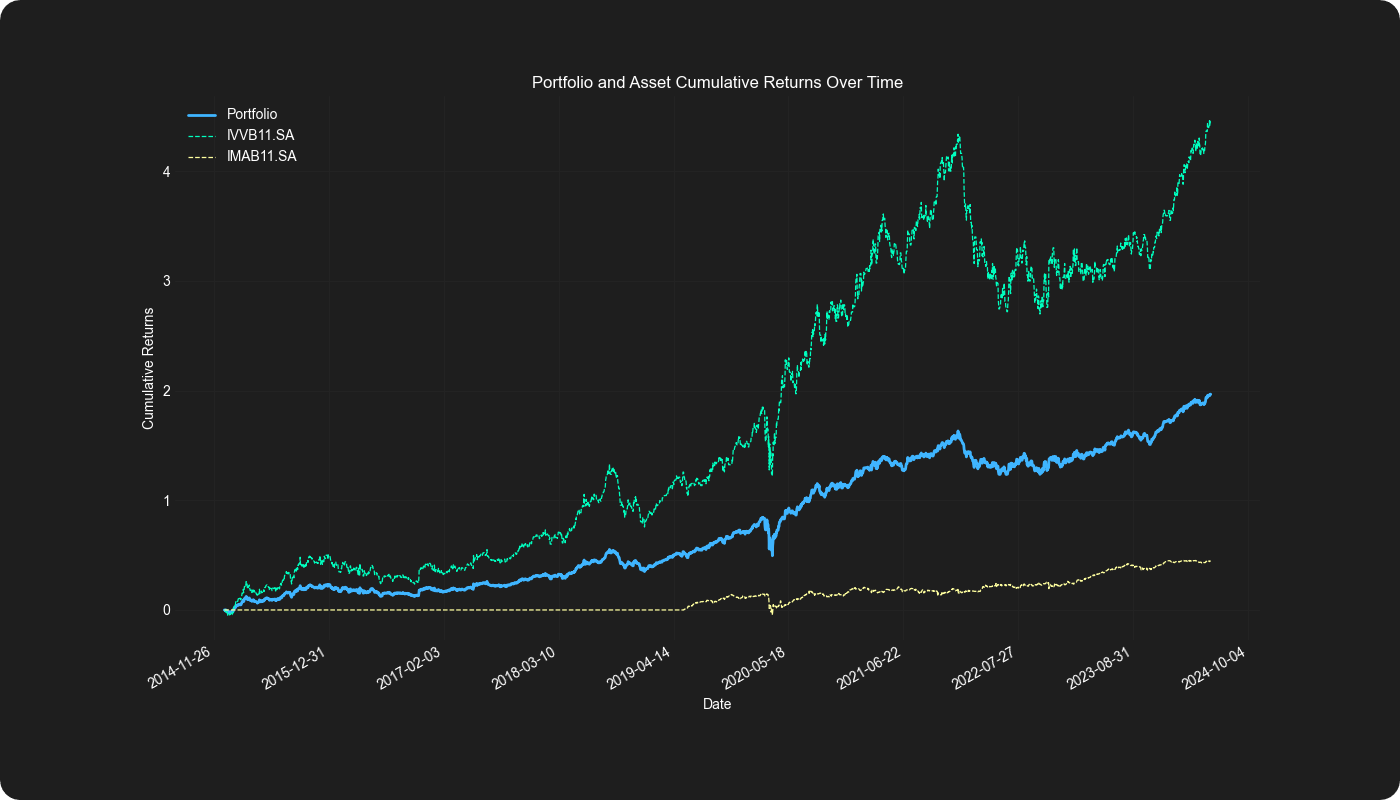
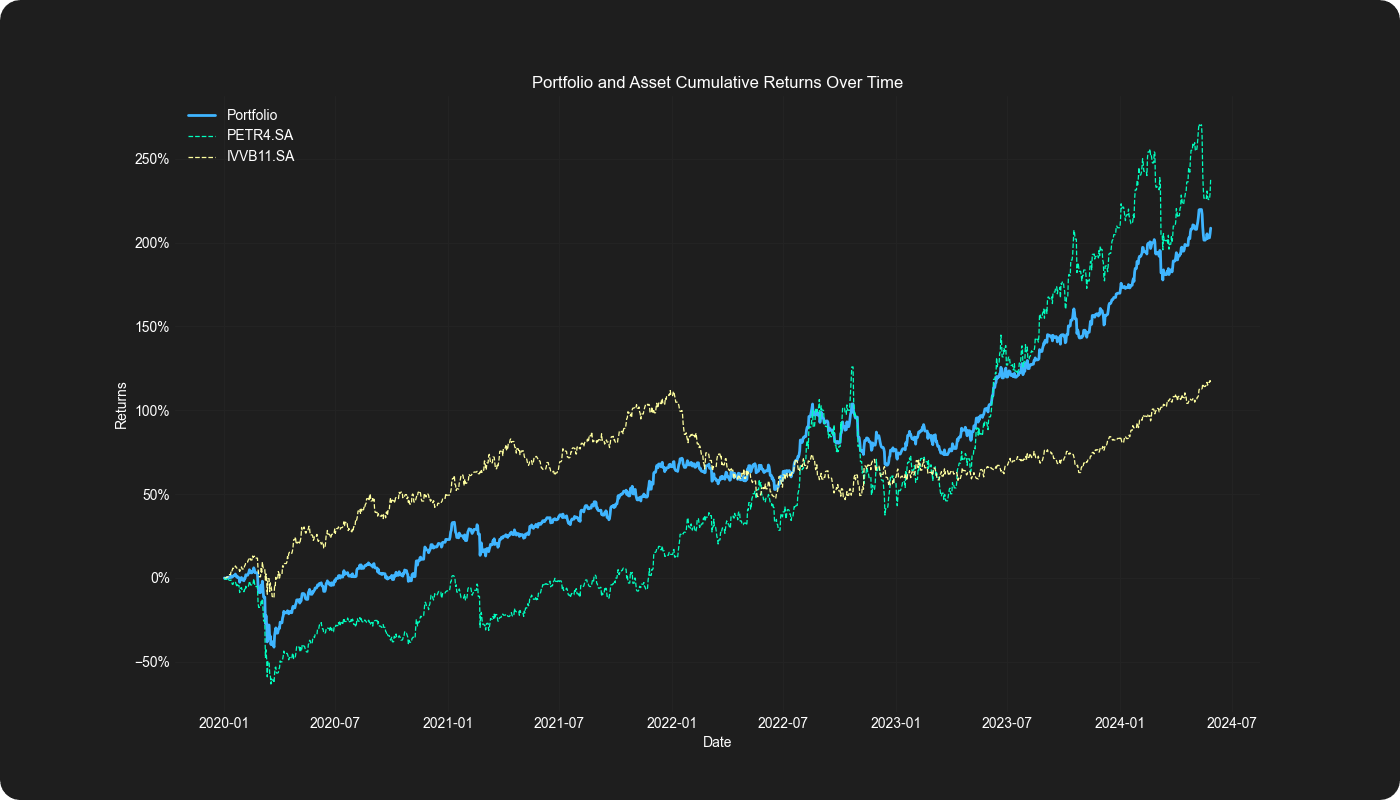
Change y axis from absolute to percentage values in portfolio backtest

diff --git a/portfolio-backtest.py b/portfolio-backtest.py
@@ -135,14 +135,12 @@ for ticker, cum_returns in asset_cumulative_returns.items():
     plt.plot(cum_returns.index, cum_returns, label=f'{ticker}', linestyle='--')
 
 plt.xlabel('Date')
-plt.ylabel('Cumulative Returns')
+plt.ylabel('Returns')
 plt.title('Portfolio and Asset Cumulative Returns Over Time')
 plt.legend()
-plt.grid(True)
 
-# Format the x-axis to show dates clearly
-plt.gca().xaxis.set_major_locator(mplticker.MaxNLocator(10))
-plt.gcf().autofmt_xdate()
+# Format y-axis tick labels as percentages
+plt.gca().yaxis.set_major_formatter(mplticker.PercentFormatter(1.0))
 
 # Enable cursor interaction on the graph
 cursor = mplcursors.cursor()
@@ -152,6 +150,8 @@ def on_add(sel):
     sel.annotation.get_bbox_patch().set_edgecolor('gray')
     sel.annotation.arrow_patch.set_color('white')
     sel.annotation.arrow_patch.set_arrowstyle('-')
+
+plt.savefig('./docs/images/portfolio-backtest.png')
 
 # Show the plot
 plt.show()
